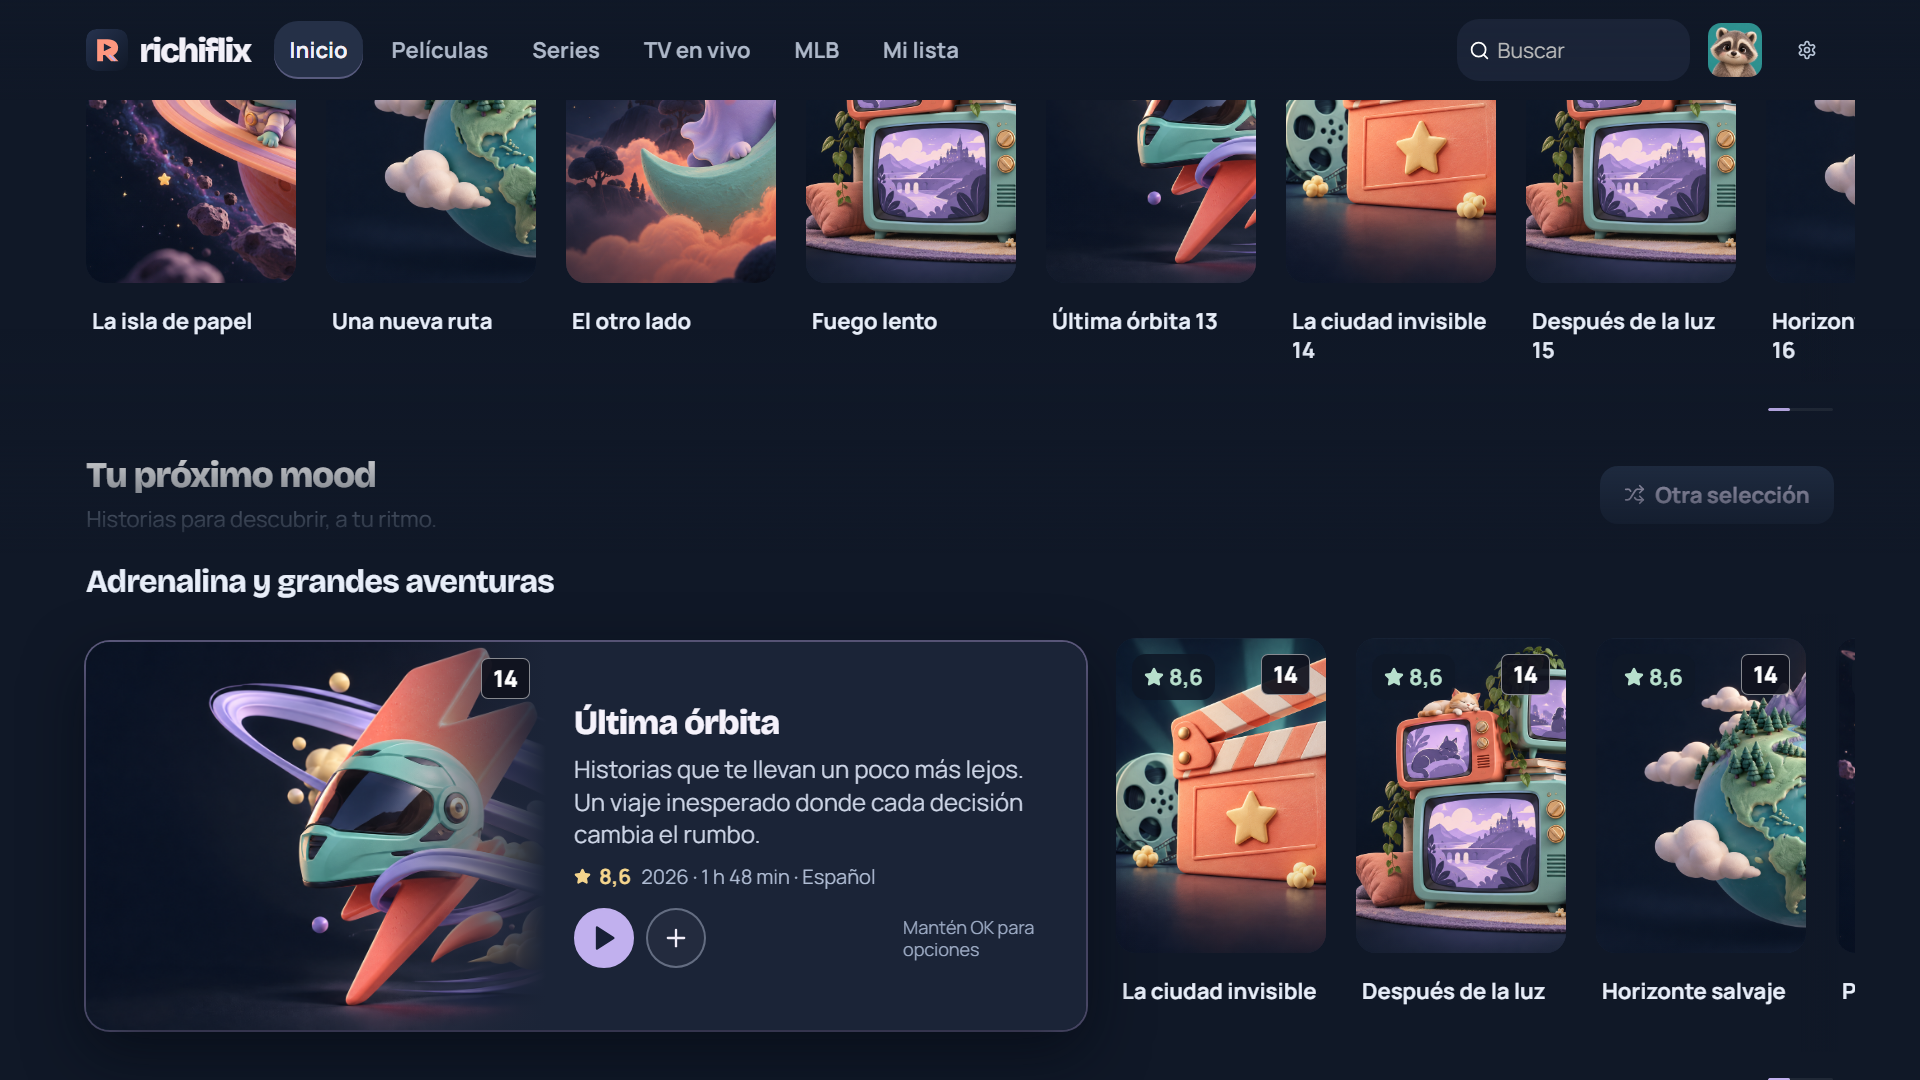
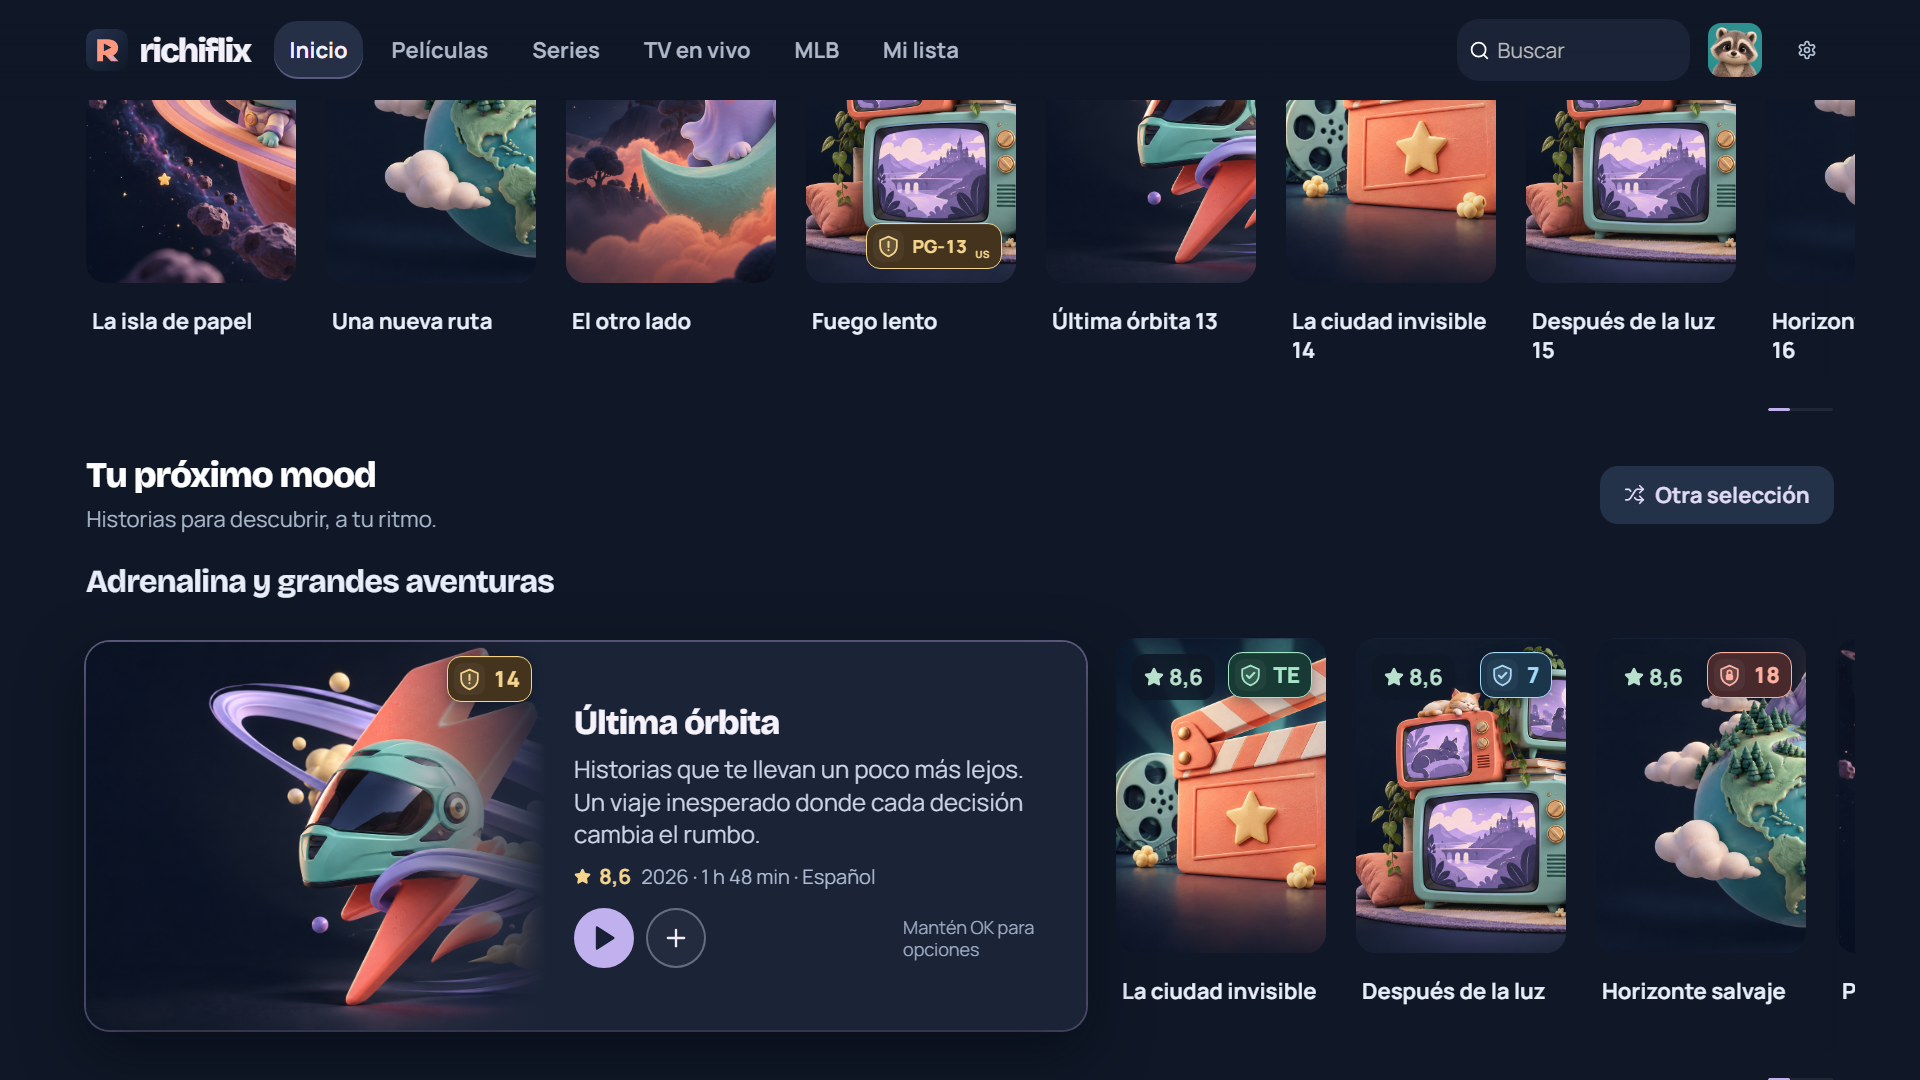
Style age certificates with coloured SVG marks and fix idle trailer shading

diff --git a/src/ageBadge.css b/src/ageBadge.css
@@ -1,5 +1,18 @@
 .poster,.expansion-media{position:relative}
-.age-badge{position:absolute;z-index:4;top:12px;right:12px;display:inline-flex;align-items:center;gap:6px;padding:6px 9px;border:1px solid #ffffff80;border-radius:7px;background:#10121eee;color:#fff;font-size:17px;line-height:1;font-weight:750;pointer-events:none}
-.age-badge small{font-size:10px;color:#d5d8e4;font-weight:600}
-.tv-mode .age-badge,.expansion-tv .age-badge{top:16px;right:16px;font-size:23px;padding:8px 11px}
-.tv-mode .age-badge small,.expansion-tv .age-badge small{font-size:13px}
+.age-badge{--age-accent:#d2c3f3;--age-surface:#252339;position:absolute;z-index:4;top:12px;right:12px;display:inline-flex;align-items:center;gap:7px;max-width:calc(100% - 24px);padding:5px 9px 5px 5px;border:1px solid var(--age-accent);border-radius:12px;background:var(--age-surface);box-shadow:0 4px 12px #07101b55,inset 0 1px 0 #ffffff18;color:var(--age-accent);font-size:17px;line-height:1;font-weight:800;pointer-events:none}
+.age-badge[data-age-tone='general']{--age-accent:#a6e6c6;--age-surface:#173b34}
+.age-badge[data-age-tone='family']{--age-accent:#a6dafa;--age-surface:#1b354b}
+.age-badge[data-age-tone='guidance']{--age-accent:#f5d58d;--age-surface:#44341e}
+.age-badge[data-age-tone='mature']{--age-accent:#ffb1a0;--age-surface:#482a2d}
+.age-badge-mark{display:grid;place-items:center;flex-shrink:0;width:27px;height:29px;border-radius:8px;background:#ffffff0b}
+.age-badge svg{display:block;width:22px;height:22px}
+.age-badge b{font-variant-numeric:tabular-nums;white-space:nowrap}
+.age-badge small{align-self:flex-end;font-size:9px;letter-spacing:.06em;font-weight:750;padding-bottom:3px}
+.tv-mode .age-badge,.expansion-tv .age-badge{top:14px;right:14px;font-size:22px;gap:8px;padding:6px 11px 6px 6px;border-radius:14px}
+.tv-mode .age-badge-mark,.expansion-tv .age-badge-mark{width:31px;height:32px;border-radius:9px}
+.tv-mode .age-badge svg,.expansion-tv .age-badge svg{width:25px;height:25px}
+.tv-mode .age-badge small,.expansion-tv .age-badge small{font-size:10px}
+
+/* Long regional certificates use the lower corner, clear of the score. */
+.age-badge[data-age-long='true']{top:auto;bottom:12px;font-size:15px}
+.tv-mode .age-badge[data-age-long='true'],.expansion-tv .age-badge[data-age-long='true']{top:auto;bottom:14px;font-size:18px}

diff --git a/src/AgeBadge.jsx b/src/AgeBadge.jsx
@@ -1,7 +1,12 @@
 import React from 'react';
+import {ageBadgeTone} from './ageBadgeStyle.js';
 import './ageBadge.css';
+function CertificateMark({tone}){
+ return <svg viewBox="0 0 24 24" fill="none" aria-hidden="true"><path d="M12 2.5 20 6v6c0 4.4-3.7 7.8-8 9.5C7.7 19.8 4 16.4 4 12V6l8-3.5Z" fill="currentColor" fillOpacity=".16" stroke="currentColor" strokeWidth="1.7" strokeLinejoin="round"/>{tone==='mature'?<><rect x="8.5" y="10.5" width="7" height="6" rx="1.6" fill="currentColor"/><path d="M10 10.5V9a2 2 0 0 1 4 0v1.5" stroke="currentColor" strokeWidth="1.7"/></>:tone==='guidance'?<><path d="M12 7.5v5" stroke="currentColor" strokeWidth="2" strokeLinecap="round"/><circle cx="12" cy="15.5" r="1" fill="currentColor"/></>:tone==='neutral'?<><circle cx="12" cy="8" r="1" fill="currentColor"/><path d="M12 11v5" stroke="currentColor" strokeWidth="2" strokeLinecap="round"/></>:<path d="m8.5 12 2.4 2.4 4.8-5" stroke="currentColor" strokeWidth="2" strokeLinecap="round" strokeLinejoin="round"/>}</svg>;
+}
 export function AgeBadge({item}){
  const rating=item.ageClassification;
  if(item.kind==='iptv'||!rating?.label||!rating.country)return null;
- return <span className="age-badge" title={`Clasificación ${rating.country}: ${rating.label}`} aria-label={`Clasificación por edades: ${rating.label}, ${rating.country}`}><b>{rating.label}</b>{rating.country!=='CL'&&<small>{rating.country}</small>}</span>;
+ const tone=ageBadgeTone(rating);
+ return <span className="age-badge" data-age-tone={tone} data-age-long={rating.label.length>3?'true':undefined} title={`Clasificación ${rating.country}: ${rating.label}`} aria-label={`Clasificación por edades: ${rating.label}, ${rating.country}`}><span className="age-badge-mark"><CertificateMark tone={tone}/></span><b>{rating.label}</b>{rating.country!=='CL'&&<small>{rating.country}</small>}</span>;
 }

diff --git a/src/compositorMotion.css b/src/compositorMotion.css
@@ -39,7 +39,8 @@
 @media(max-width:1450px){.tv-stage .focus-stage-copy{width:46%}.tv-stage .focus-description{font-size:22px}.expansion-tv .expansion-body{padding:18px 24px}.expansion-tv .expansion-description{font-size:22px}.expansion-tv .expansion-body h3{font-size:30px}}
 @media(max-width:700px){.expansion-tv .expansion-media{flex-basis:auto}.expansion-tv .expansion-body{padding:12px 20px}.tv-stage .focus-stage-copy{width:64%}.expansion-tv .expansion-description{-webkit-line-clamp:3;font-size:20px}}
 .samsung-tv .tv-mode .card.is-expanded .card-open:after{opacity:0}
-.card-trailer-banner{border-radius:0}.card-trailer-banner:after{content:'';position:absolute;inset:0;background:linear-gradient(0deg,#101827 0%,#10182722 24%,transparent 50%);pointer-events:none}
+.card-trailer-banner{border-radius:0}.card-trailer-banner:after{content:'';position:absolute;inset:0;background:linear-gradient(0deg,#101827 0%,#10182722 24%,transparent 50%);pointer-events:none;opacity:0}
+.card-trailer-banner[data-trailer-state='playing']:after{opacity:1}
 .tv-stage[data-card-trailer] .focus-stage-copy,.tv-stage[data-card-trailer] .focus-stage-visual{opacity:0;pointer-events:none;transition:opacity .16s ease}
 @media(prefers-reduced-motion:reduce){.tv-stage[data-card-trailer] .focus-stage-copy,.tv-stage[data-card-trailer] .focus-stage-visual{transition:none}}
 /* Two stable viewports: reserve the scene only after actual video playback. */

diff --git a/src/ageClassification.test.js b/src/ageClassification.test.js
@@ -1,3 +1,4 @@
+import {ageBadgeTone} from './ageBadgeStyle.js';
 import test from 'node:test';
 import assert from 'node:assert/strict';
 import {tmdbAgeClassification} from './ageClassification.js';
@@ -22,4 +23,9 @@ test('certifications share the metadata request and survive a persistent cache r
  const cache=createPersistentMetadataCache(options);await cache.put('series',await load(42,'series'));await cache.put('movie',await load(43,'movie'));await cache.flush();
  const resumed=createPersistentMetadataCache(options);
  assert.equal((await resumed.get('series')).ageClassification.label,'18');assert.equal((await resumed.get('movie')).ageClassification,null);assert.equal(requests,2);
+});
+
+test('certificate colours respect regional labels and never assign a category to an unknown certificate',()=>{
+ const cases=[['CL','TE','general'],['CL','TE +7','family'],['CL','14','guidance'],['CL','18','mature'],['ES','12','family'],['US','PG-13','guidance'],['US','TV-MA','mature'],['US','14','neutral'],['XX','18','neutral']];
+ for(const [country,label,tone] of cases){const rating={country,label};assert.equal(ageBadgeTone(rating),tone);assert.deepEqual(rating,{country,label});}
 });

diff --git a/src/TrailerPreview.jsx b/src/TrailerPreview.jsx
@@ -69,9 +69,11 @@ export function TrailerPreview({id,active=true,card=false}){
  useEffect(()=>()=>publishPreviewPlayback(playbackToken.current,false),[]);
  useLayoutEffect(()=>{
   if(!card||!owner?.target)return;
+  const deck=root.current?.closest('.card-trailer-deck');
+  deck?.setAttribute('data-trailer-state',playing?'playing':'poster');
   const state=playing&&!owner.banner?'playing':'poster';owner.target.dataset.trailerState=state;owner.target.parentElement?.setAttribute('data-trailer-state',state);
   owner.banner?.setAttribute('data-card-trailer',playing?'playing':'pending');
-  return()=>owner.banner?.removeAttribute('data-card-trailer');
+  return()=>{deck?.setAttribute('data-trailer-state','poster');owner.banner?.removeAttribute('data-card-trailer');};
  },[card,owner,playing]);
  return <div ref={root} className={'trailer-preview '+(playing?'is-playing':holding?'is-exiting':'')} data-trailer-state={playing?'playing':'poster'} data-trailer-transport={trailerBridgeEnabled?'bridge':'direct'} data-trailer-muted="false" aria-hidden="true"/>;
 }

diff --git a/src/ageBadgeStyle.js b/src/ageBadgeStyle.js
@@ -1,0 +1,17 @@
+// Visual tones only. The certificate text and Kids eligibility remain unchanged.
+export function ageBadgeTone(rating){
+ if(!rating)return 'neutral';
+ const label=String(rating.label||'').toUpperCase().replace(/\s/g,'');
+ if(rating.country==='US'){
+  if(['G','TV-G','TV-Y'].includes(label))return 'general';
+  if(label==='TV-Y7')return 'family';
+  if(['PG','TV-PG','PG-13','TV-14'].includes(label))return 'guidance';
+  if(['R','NC-17','TV-MA'].includes(label))return 'mature';
+ }
+ if(['CL','ES'].includes(rating.country)){
+  if(['TE','TP','APTA','A'].includes(label))return 'general';
+  const match=label.match(/^(?:TE\+)?(\d{1,2})\+?$/);
+  if(match){const age=Number(match[1]);return age===0?'general':age<=12?'family':age<18?'guidance':'mature';}
+ }
+ return 'neutral';
+}

diff --git a/docs/TARJETA-AMPLIADA.md b/docs/TARJETA-AMPLIADA.md
@@ -32,3 +32,7 @@ La prueba de catálogo virtual recorre 27.000 títulos y 2.000 movimientos, mant
 Una etiqueta en la esquina superior derecha de la portada y de la tarjeta ampliada muestra el certificado real de TMDB. Se prioriza Chile, después España y Estados Unidos; los certificados extranjeros llevan su región. Se conserva el texto original: PG-13 o TV-14 no se convierten en una edad inventada. Cuando no hay certificado, no aparece una etiqueta. Esto no sustituye las reglas del perfil Kids.
 
 Películas incluyen release_dates y series content_ratings en la misma consulta de sinopsis y vídeos. La clasificación, incluida su ausencia, se guarda en la caché persistente de metadatos (máximo 2000 entradas y 6 MB; 30 días con sinopsis española, 7 días para información parcial). La generación v5 renueva los detalles antiguos al precargarlos. Las próximas dos filas usan la precarga existente, sin una llamada independiente para cada etiqueta.
+
+La etiqueta incorpora un escudo SVG propio: menta para certificados generales, azul para infantiles/familiares, ámbar para orientación y coral para adultos. El símbolo cambia entre marca de verificación, aviso y candado; las etiquetas desconocidas usan un tono neutro. Son colores de la interfaz, no certificaciones propias ni cambios en la selección del perfil Kids. Los certificados largos se sitúan abajo a la derecha para dejar libre la puntuación.
+
+La sombra de unión del vídeo solo aparece durante la reproducción confirmada. Durante la espera, ausencia o error del tráiler no hay una capa de degradado delante de los títulos del catálogo.
